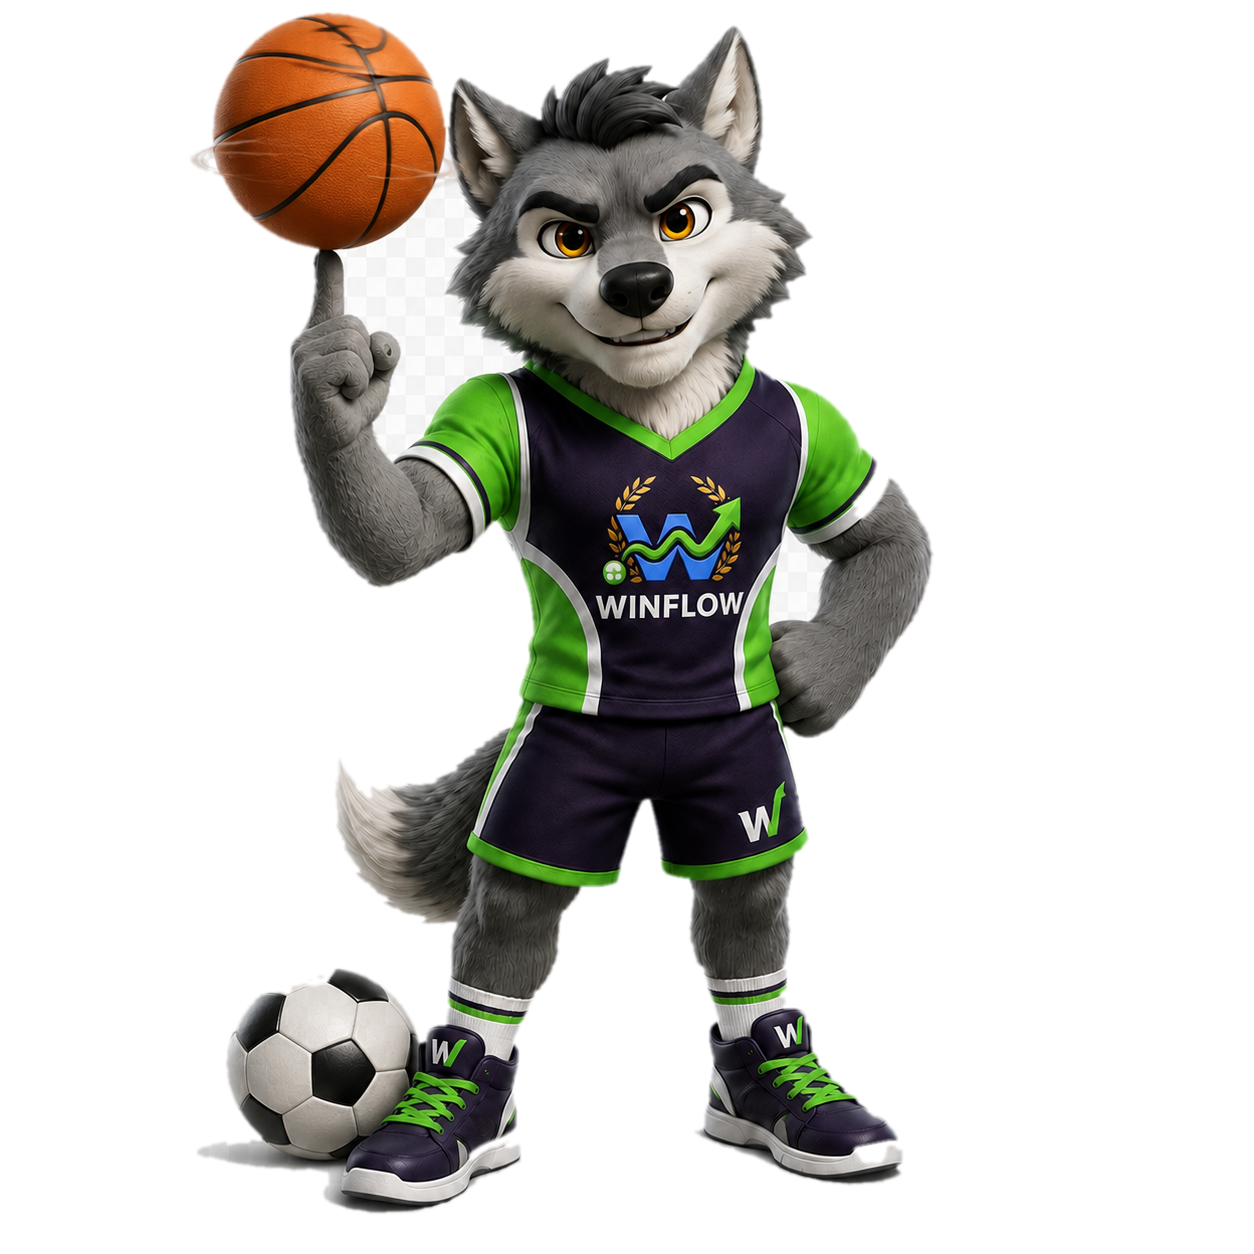
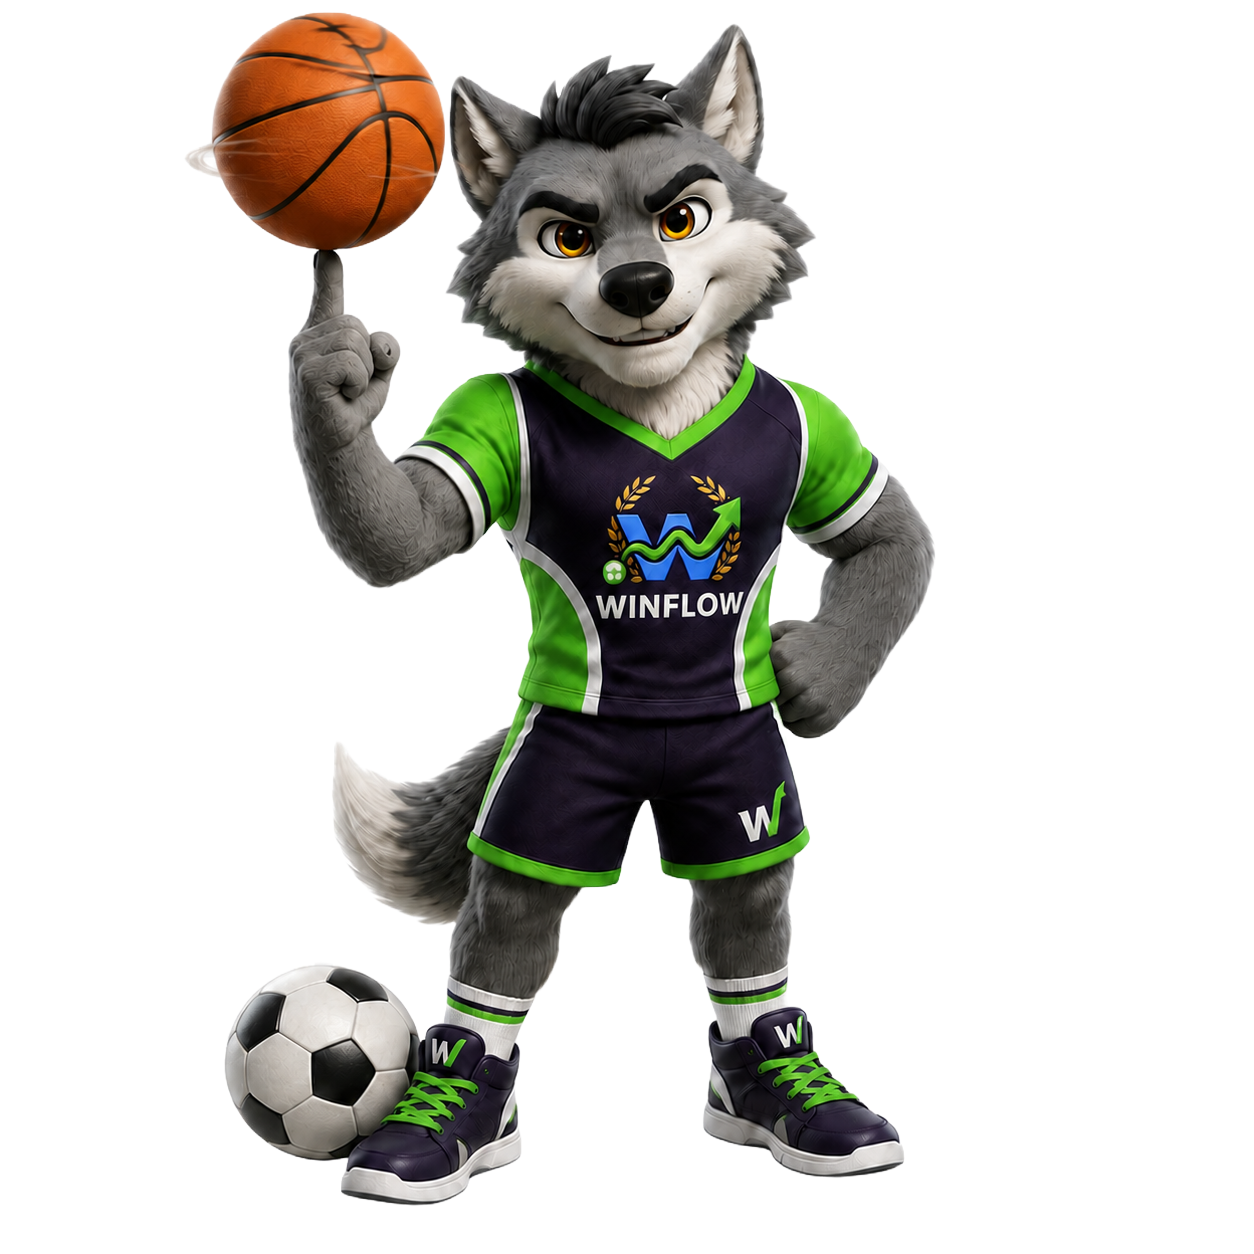
feat: update wolf mascot animation

diff --git a/winflow-client/src/App.jsx b/winflow-client/src/App.jsx
@@ -1105,17 +1105,17 @@ function SportEmptyState({ selectedSport, t }) {
     <div className="mt-16 flex flex-col items-center justify-center text-center md:mt-20">
       <style>{`
         @keyframes mascotFloat { 0%, 100% { transform: translateY(0) rotate(-1deg); } 50% { transform: translateY(-16px) rotate(1deg); } }
-        @keyframes orbitBall { from { transform: rotate(0deg) translateX(132px) rotate(0deg); } to { transform: rotate(360deg) translateX(132px) rotate(-360deg); } }
+        @keyframes orbitBall { from { transform: rotate(0deg) translateX(154px) rotate(0deg); } to { transform: rotate(360deg) translateX(154px) rotate(-360deg); } }
         @keyframes stadiumSweep { 0%, 100% { opacity: .25; transform: translateX(-45%) skewX(-18deg); } 50% { opacity: .75; transform: translateX(45%) skewX(-18deg); } }
         @keyframes scorePulse { 0%, 100% { box-shadow: 0 0 18px rgba(16,185,129,.25); } 50% { box-shadow: 0 0 38px rgba(16,185,129,.55); } }
       `}</style>
 
-      <div className={`relative mb-8 h-[28rem] w-full max-w-2xl overflow-hidden rounded-[2.5rem] border border-white/10 bg-gradient-to-br ${primaryGlow} via-slate-900/80 to-slate-950 shadow-2xl shadow-black/40`}>
+      <div className={`relative mb-8 h-[30rem] w-full max-w-3xl overflow-hidden rounded-[2.75rem] border border-white/10 bg-gradient-to-br ${primaryGlow} via-slate-900/80 to-slate-950 shadow-2xl shadow-black/40 md:h-[32rem]`}>
         <div className="absolute inset-0 bg-[radial-gradient(circle_at_50%_15%,rgba(255,255,255,0.13),transparent_34%),radial-gradient(circle_at_18%_78%,rgba(34,197,94,0.18),transparent_28%),radial-gradient(circle_at_82%_72%,rgba(59,130,246,0.16),transparent_30%)]" />
-        <div className="absolute inset-x-10 bottom-12 h-28 rounded-[50%] border-2 border-dashed border-white/15" />
+        <div className="absolute inset-x-8 bottom-12 h-32 rounded-[50%] border-2 border-dashed border-white/15 md:inset-x-12" />
         <div className="absolute inset-x-16 bottom-24 h-1 rounded-full bg-emerald-300/25 blur-sm" />
-        <div className="absolute left-1/2 top-8 h-64 w-64 -translate-x-1/2 rounded-full border border-white/10 bg-white/[0.03]" />
-        <div className="absolute left-1/2 top-12 h-52 w-52 -translate-x-1/2 rounded-full border border-emerald-300/20" style={{ animation: 'scorePulse 2.8s ease-in-out infinite' }} />
+        <div className="absolute left-1/2 top-7 h-72 w-72 -translate-x-1/2 rounded-full border border-white/10 bg-white/[0.03]" />
+        <div className="absolute left-1/2 top-11 h-60 w-60 -translate-x-1/2 rounded-full border border-emerald-300/20" style={{ animation: 'scorePulse 2.8s ease-in-out infinite' }} />
 
         <div className="absolute left-1/2 top-28 h-1 w-72 origin-center rounded-full bg-gradient-to-r from-transparent via-white/30 to-transparent blur-sm" style={{ animation: 'stadiumSweep 3.2s ease-in-out infinite' }} />
         <div className="absolute left-8 top-10 h-20 w-20 rounded-full border border-white/10 bg-white/[0.05] animate-pulse" />
@@ -1130,7 +1130,7 @@ function SportEmptyState({ selectedSport, t }) {
         <img
           src={winflowMascot}
           alt="WinFlow 3D mascot"
-          className="absolute bottom-0 left-1/2 z-10 h-[25rem] max-h-[92%] w-auto -translate-x-1/2 object-contain drop-shadow-[0_28px_32px_rgba(0,0,0,0.55)]"
+          className="absolute -bottom-2 left-1/2 z-10 h-[29rem] max-h-[98%] w-auto -translate-x-1/2 object-contain drop-shadow-[0_30px_34px_rgba(0,0,0,0.58)] md:h-[31rem]"
           style={{ animation: 'mascotFloat 3.6s ease-in-out infinite' }}
         />
 
